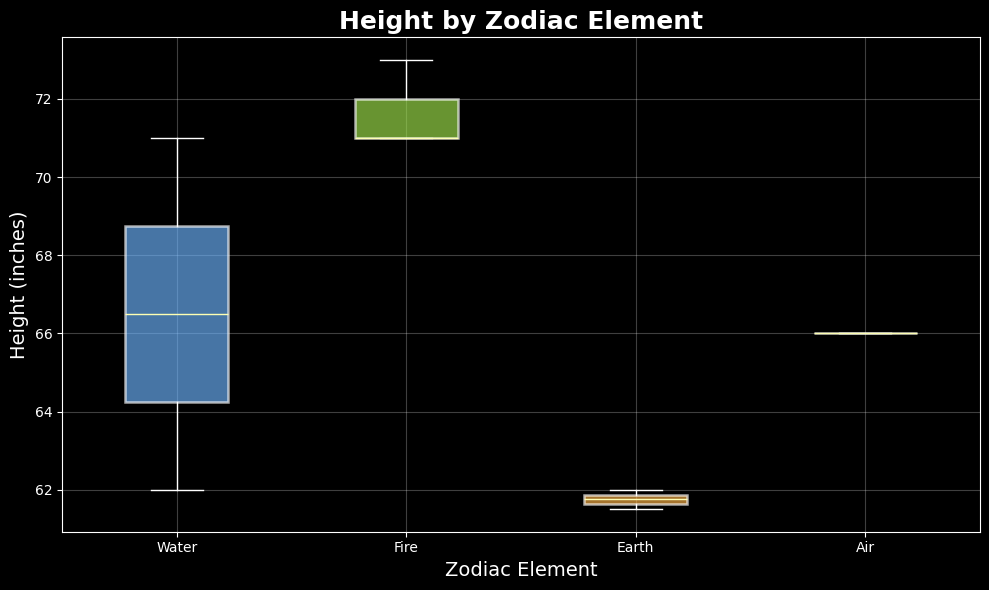
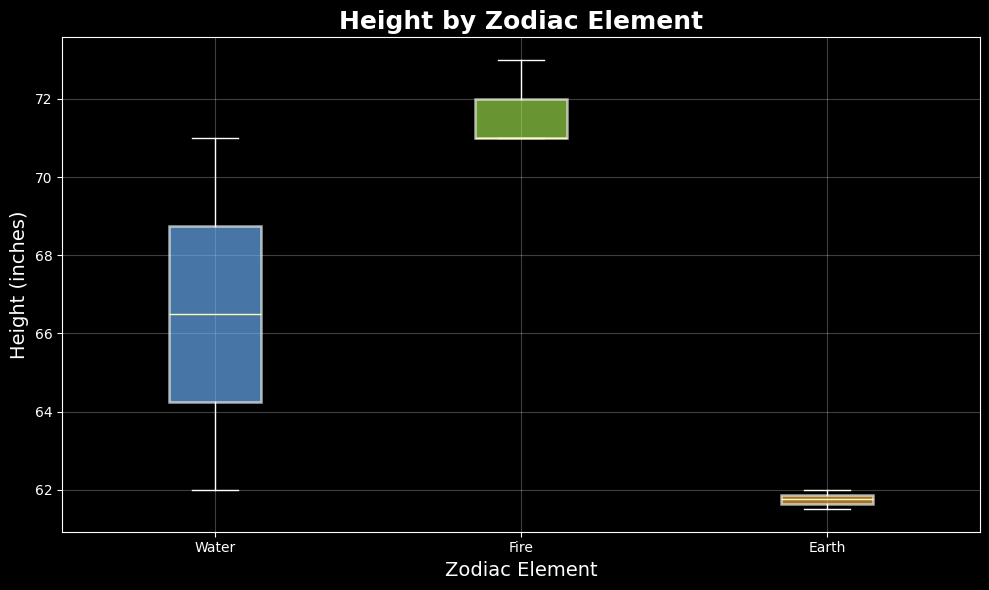
commit

diff --git a/main.py b/main.py
@@ -2,12 +2,11 @@ import pandas as pd
 import numpy as np
 from matplotlib import pyplot as plt
 
-# set style theme
 plt.style.use('dark_background')
 
-#read csv into dataframe
 df = pd.read_csv('ClassDataset.csv')
 df = df.head(8)
+df = df[df['Zodiac Element'] != 'Air']
 print(df.info)
 
 # Group by neighborhood and compute the average
@@ -21,10 +20,10 @@ plt.close()
 
 plt.figure(figsize=(10,6))
 
-# Use pastel colors for each element
+
 colors = ['#6EB5FF', '#A1E44D', '#FFB347', '#FF6961']
 
-# Create boxplot
+# boxplot
 bp = plt.boxplot(
     [df[df['Zodiac Element']==elem]['Height Inches'] 
      for elem in df['Zodiac Element'].unique()],
@@ -32,14 +31,13 @@ bp = plt.boxplot(
     labels=df['Zodiac Element'].unique()
 )
 
-# Color the boxes
+
 for patch, color in zip(bp['boxes'], colors):
     patch.set_facecolor(color)
     patch.set_alpha(0.65)
     patch.set_edgecolor('white')
     patch.set_linewidth(1.8)
 
-# Improve aesthetics
 plt.title('Height by Zodiac Element', fontsize=18, fontweight='bold')
 plt.xlabel('Zodiac Element', fontsize=14)
 plt.ylabel('Height (inches)', fontsize=14)
